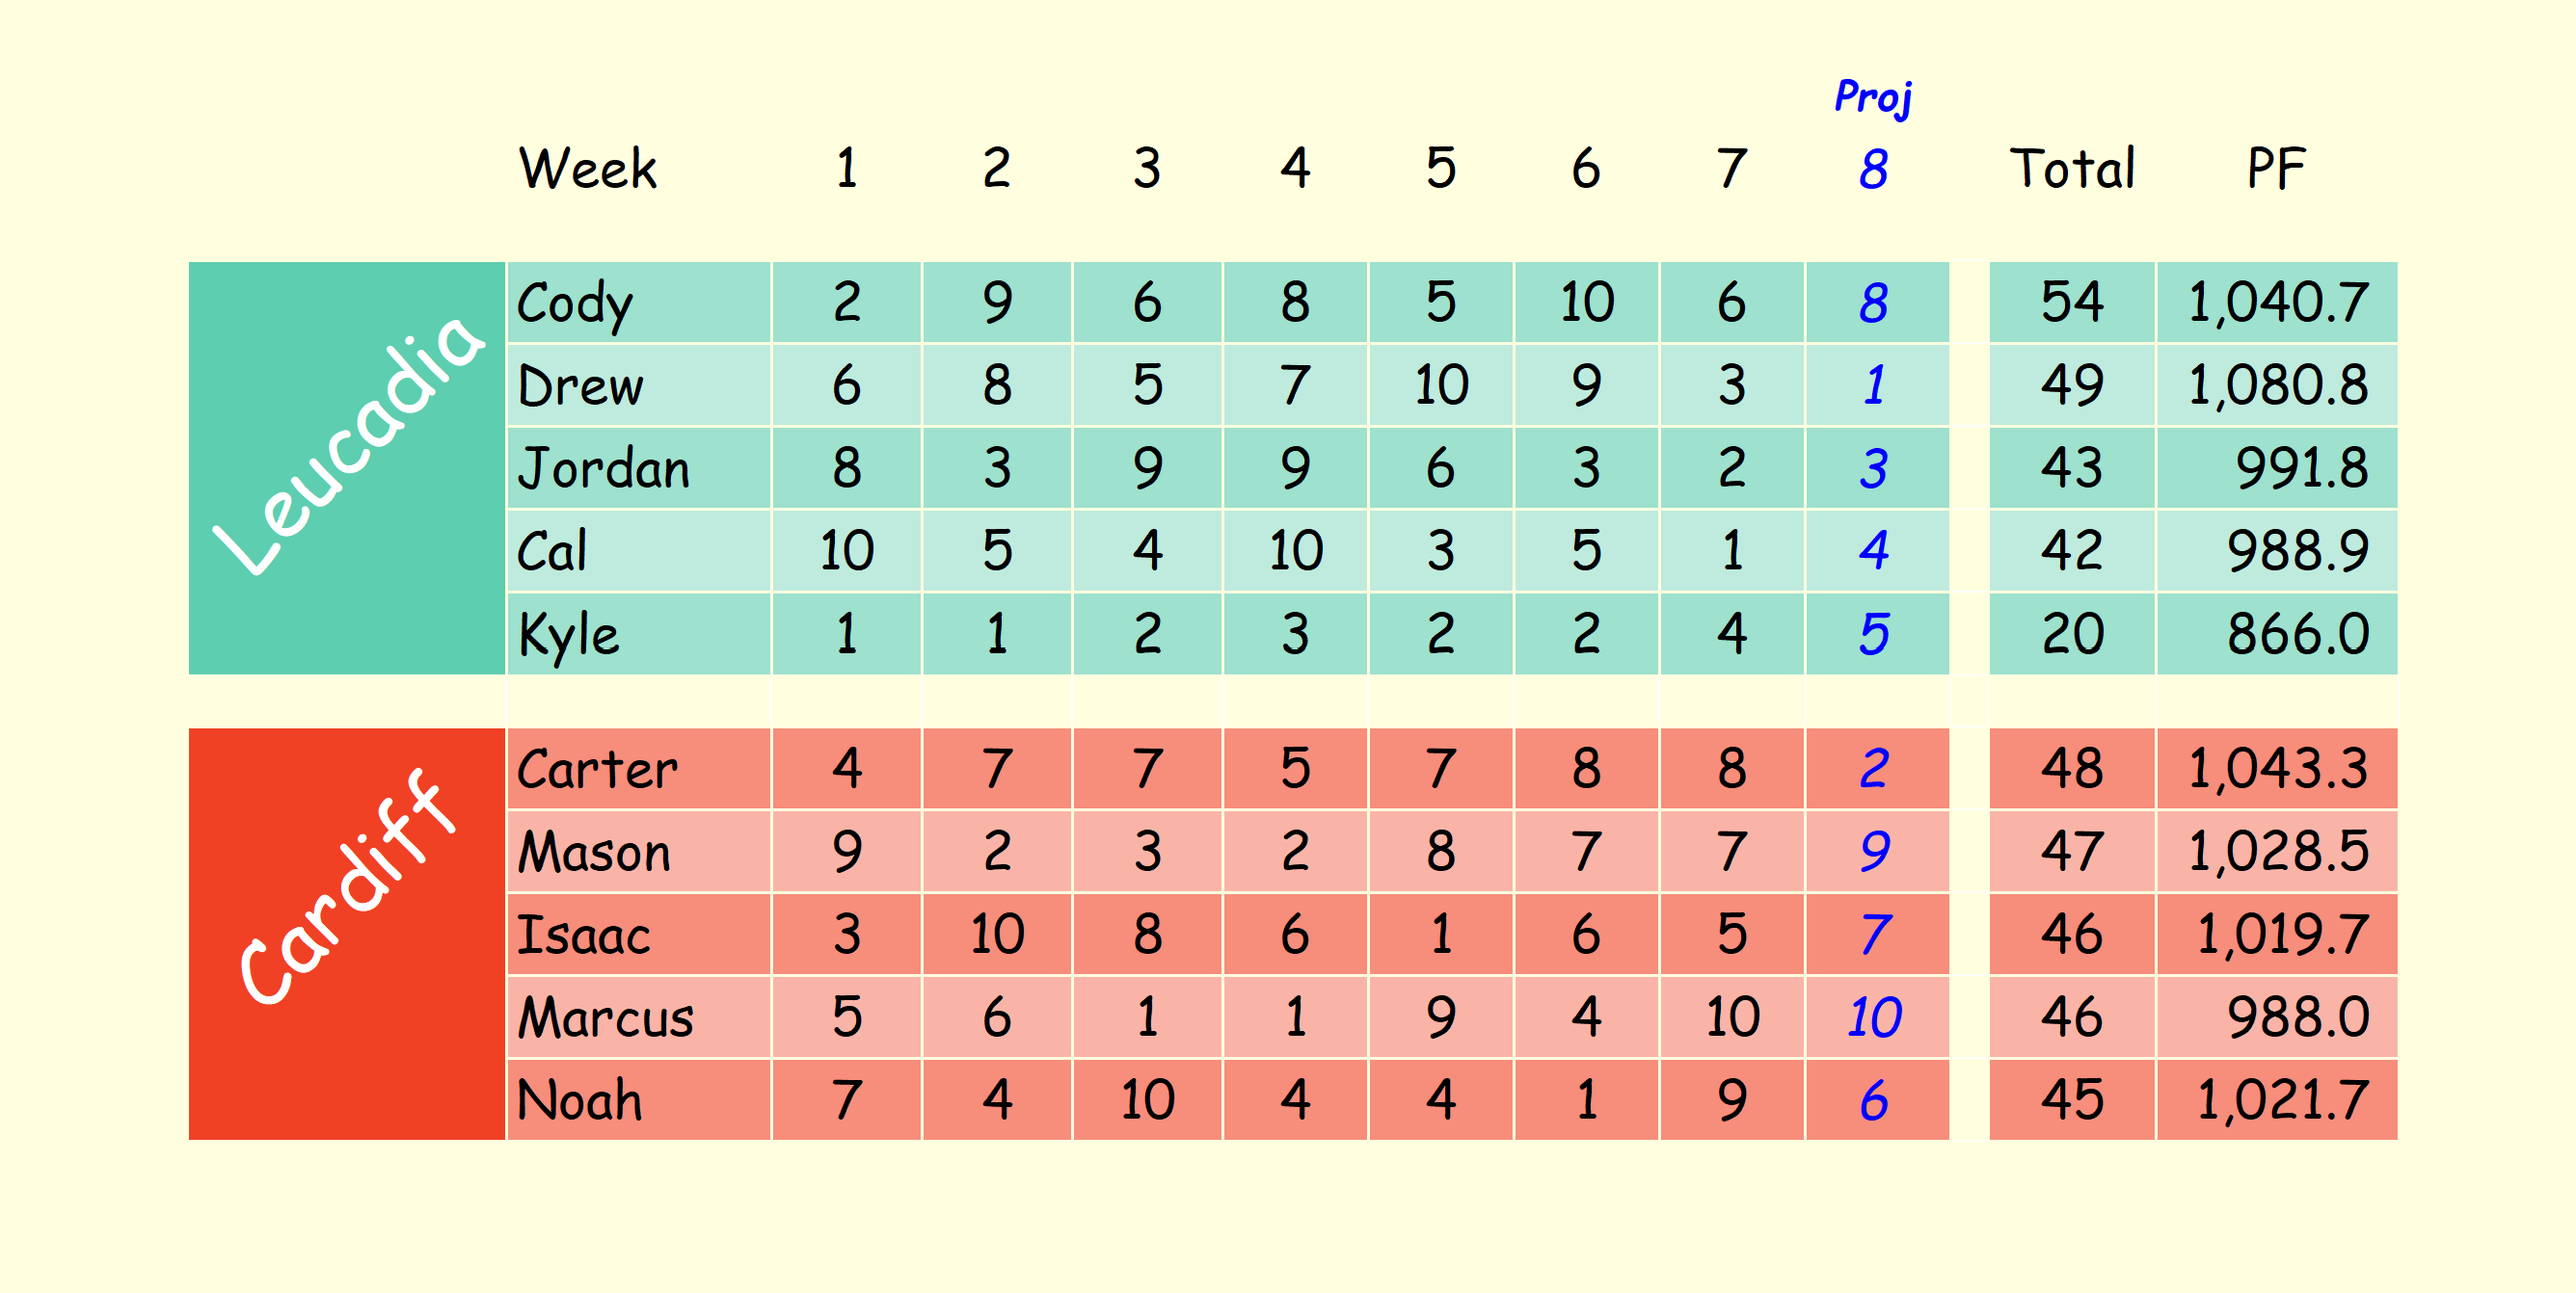
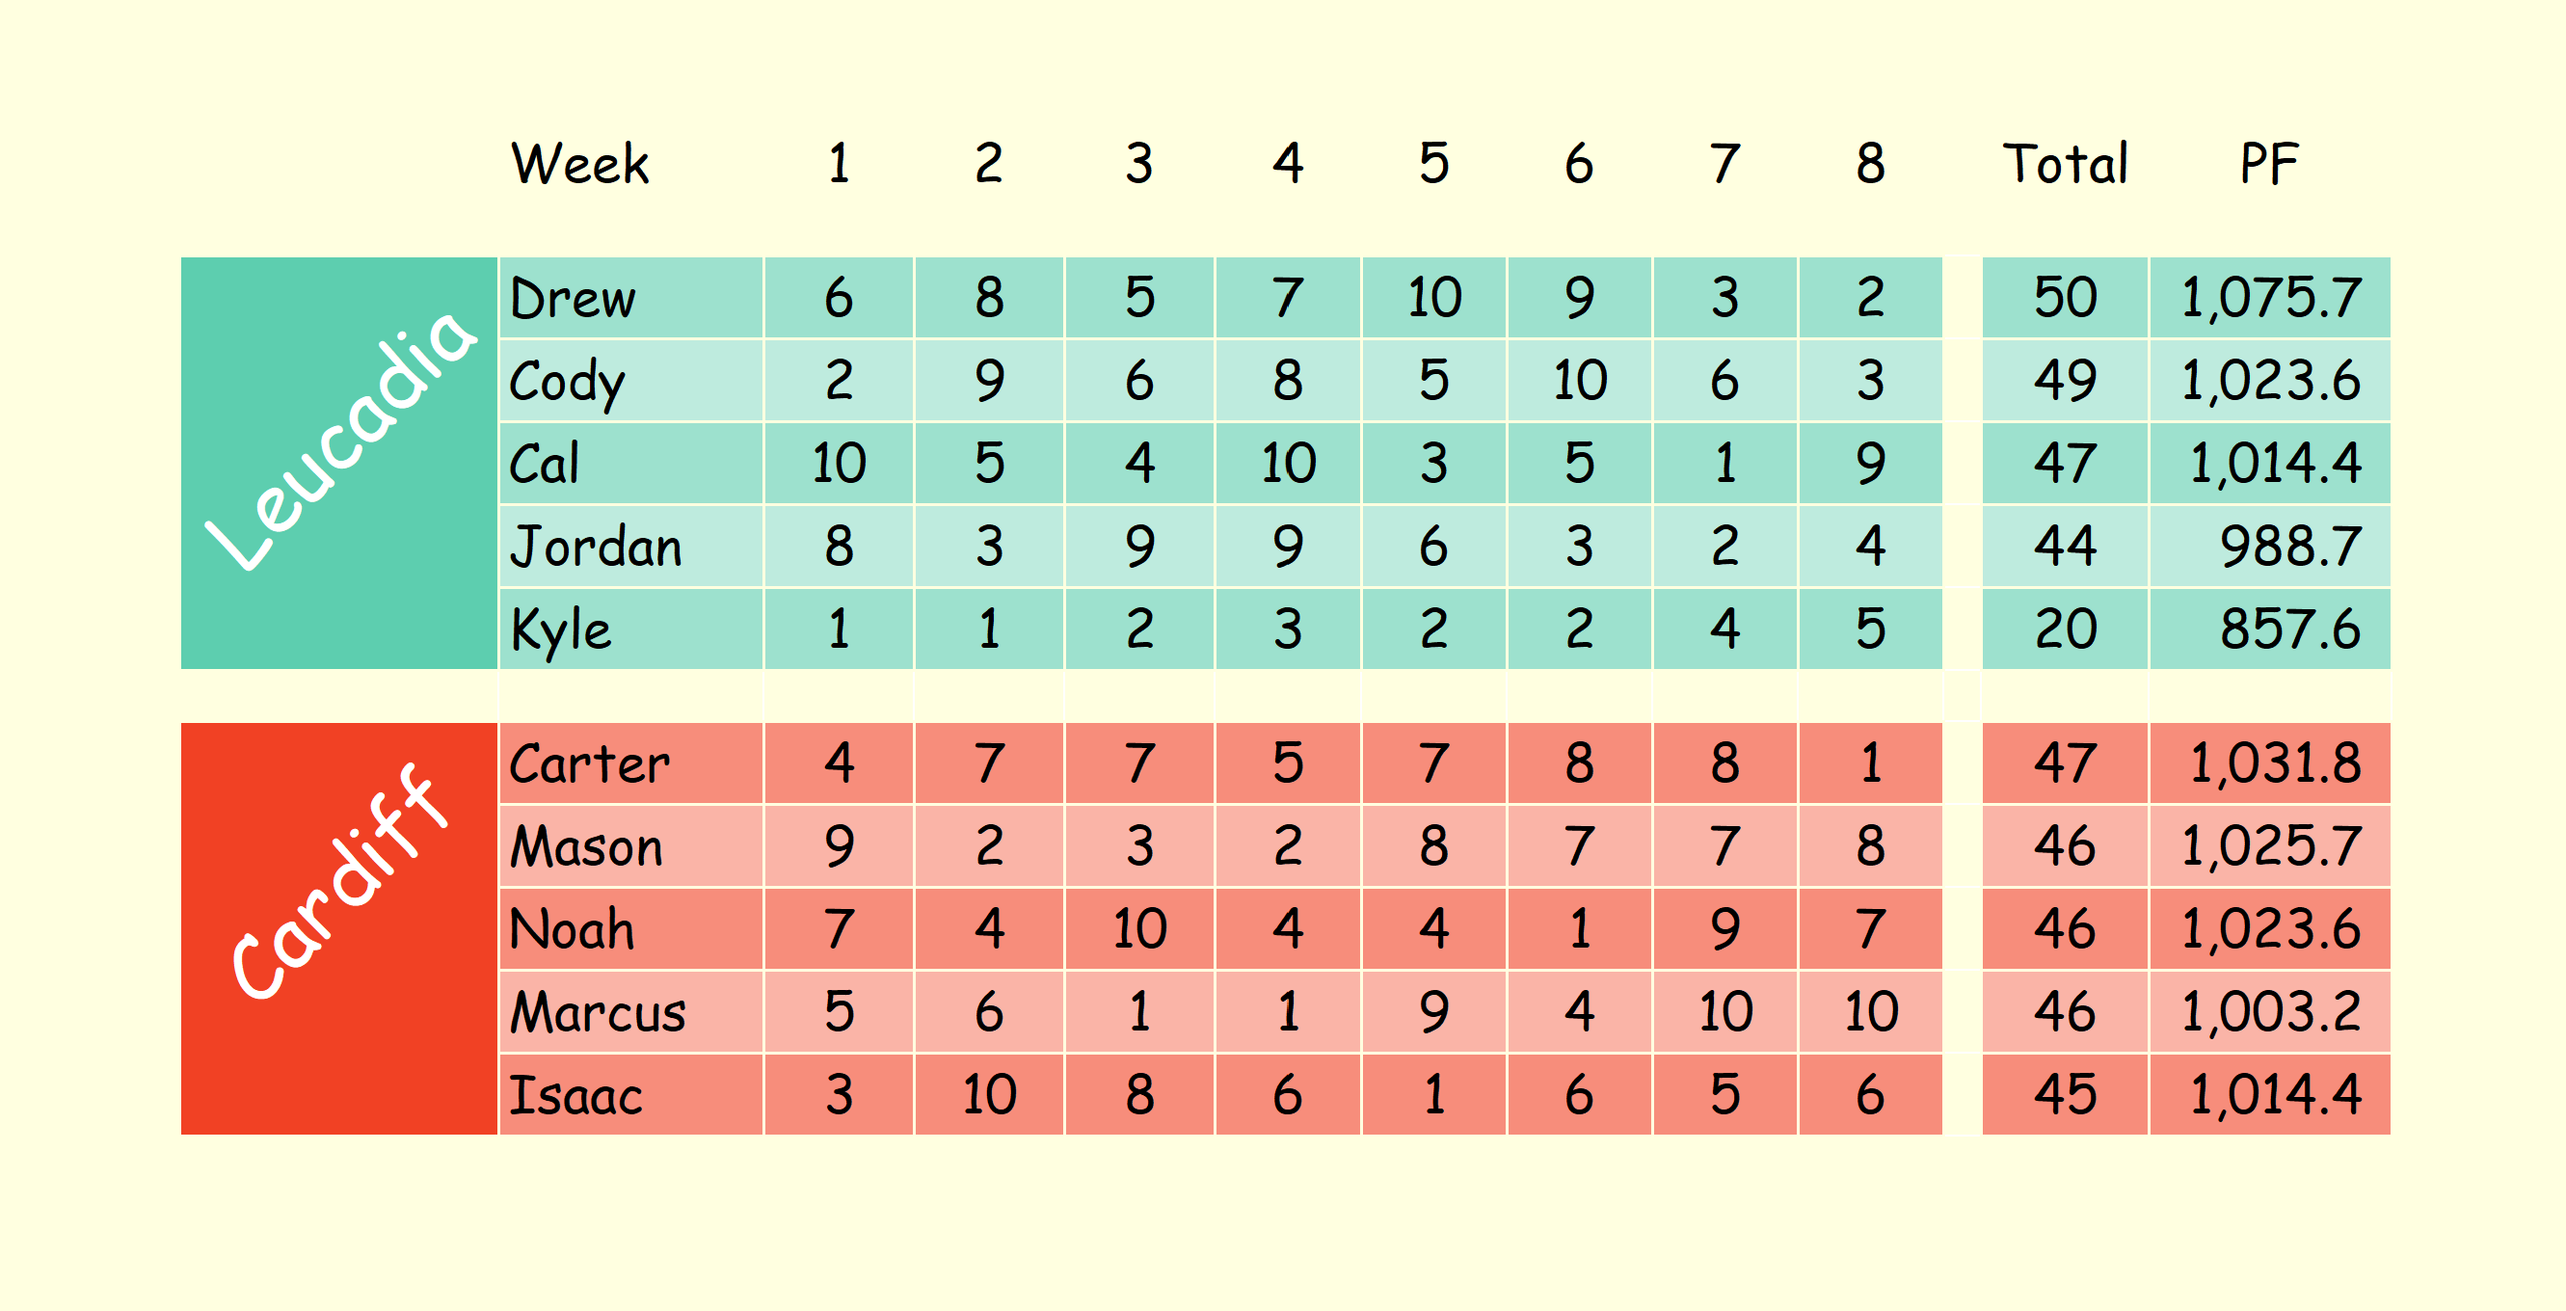
week 8 final

diff --git a/get_scores.py b/get_scores.py
@@ -21,10 +21,10 @@ DIV = {
 
 l = League(LEAGUE_ID, 2026, ESPN_S2, SWID)
 week = l.current_week
-isProjected = True
+# isProjected = True
 
-# week = 8
-# isProjected = False
+week = 8
+isProjected = False
 
 def get_score(matchup, home_away, isProjected):
     if home_away == "home":
